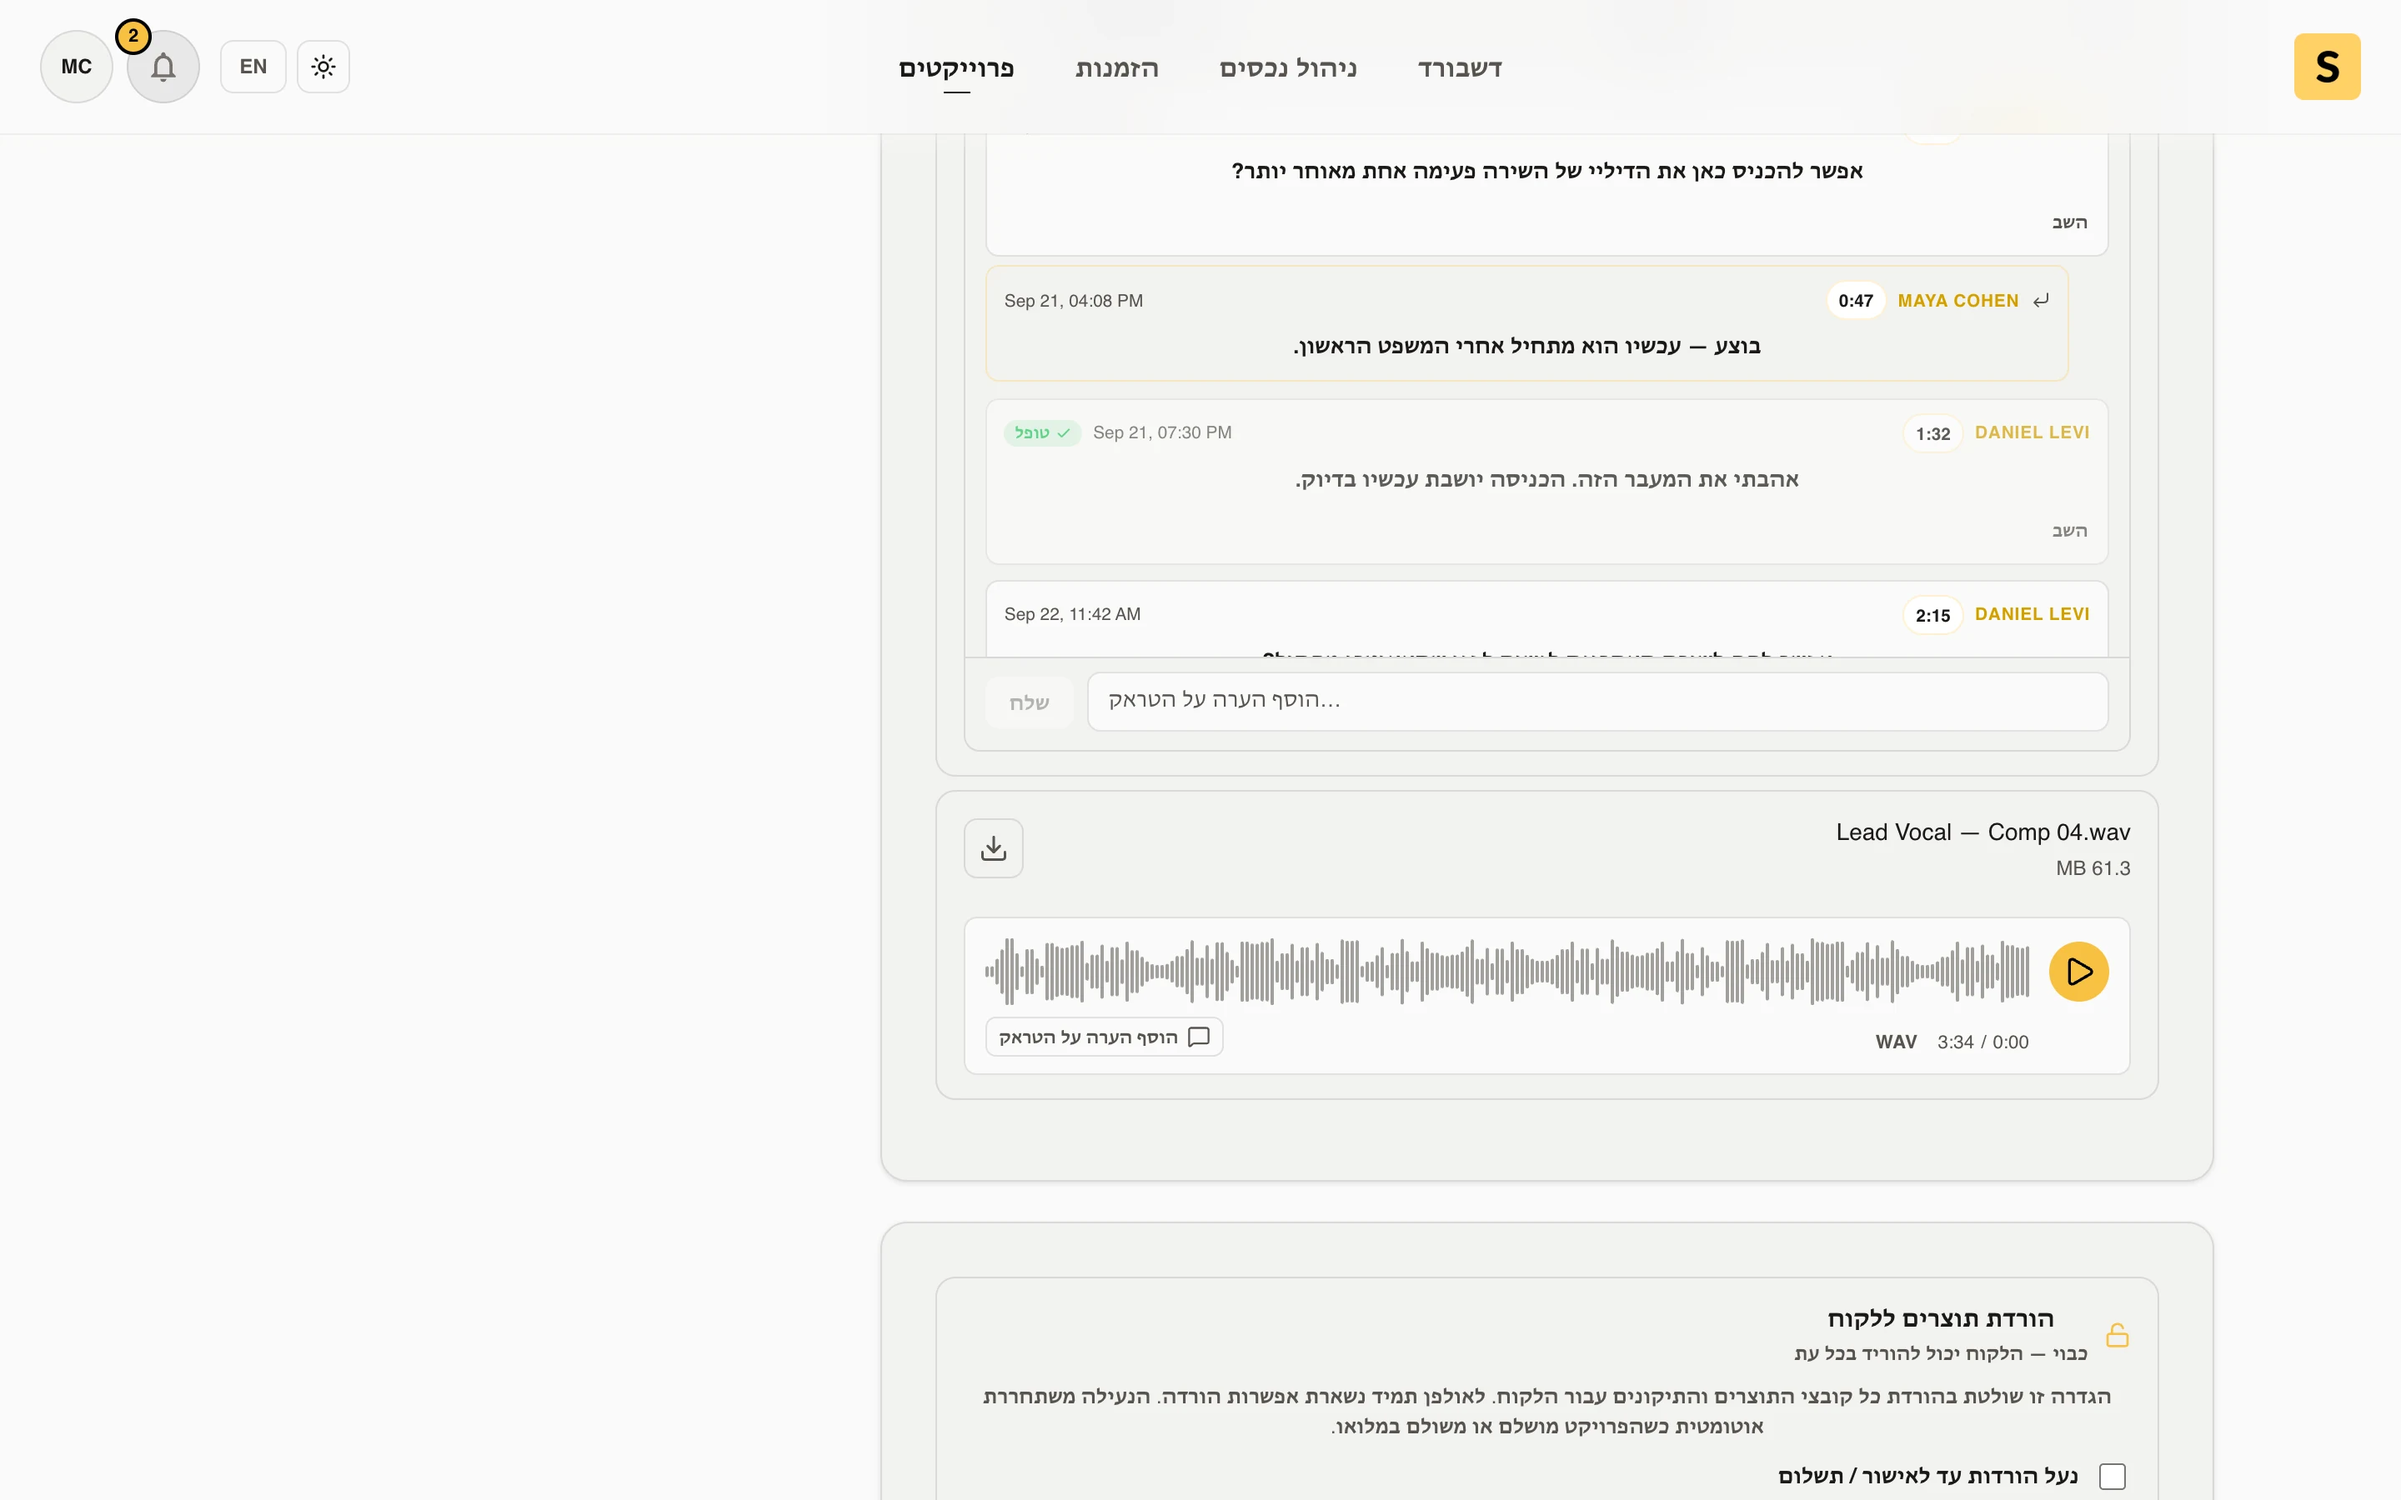
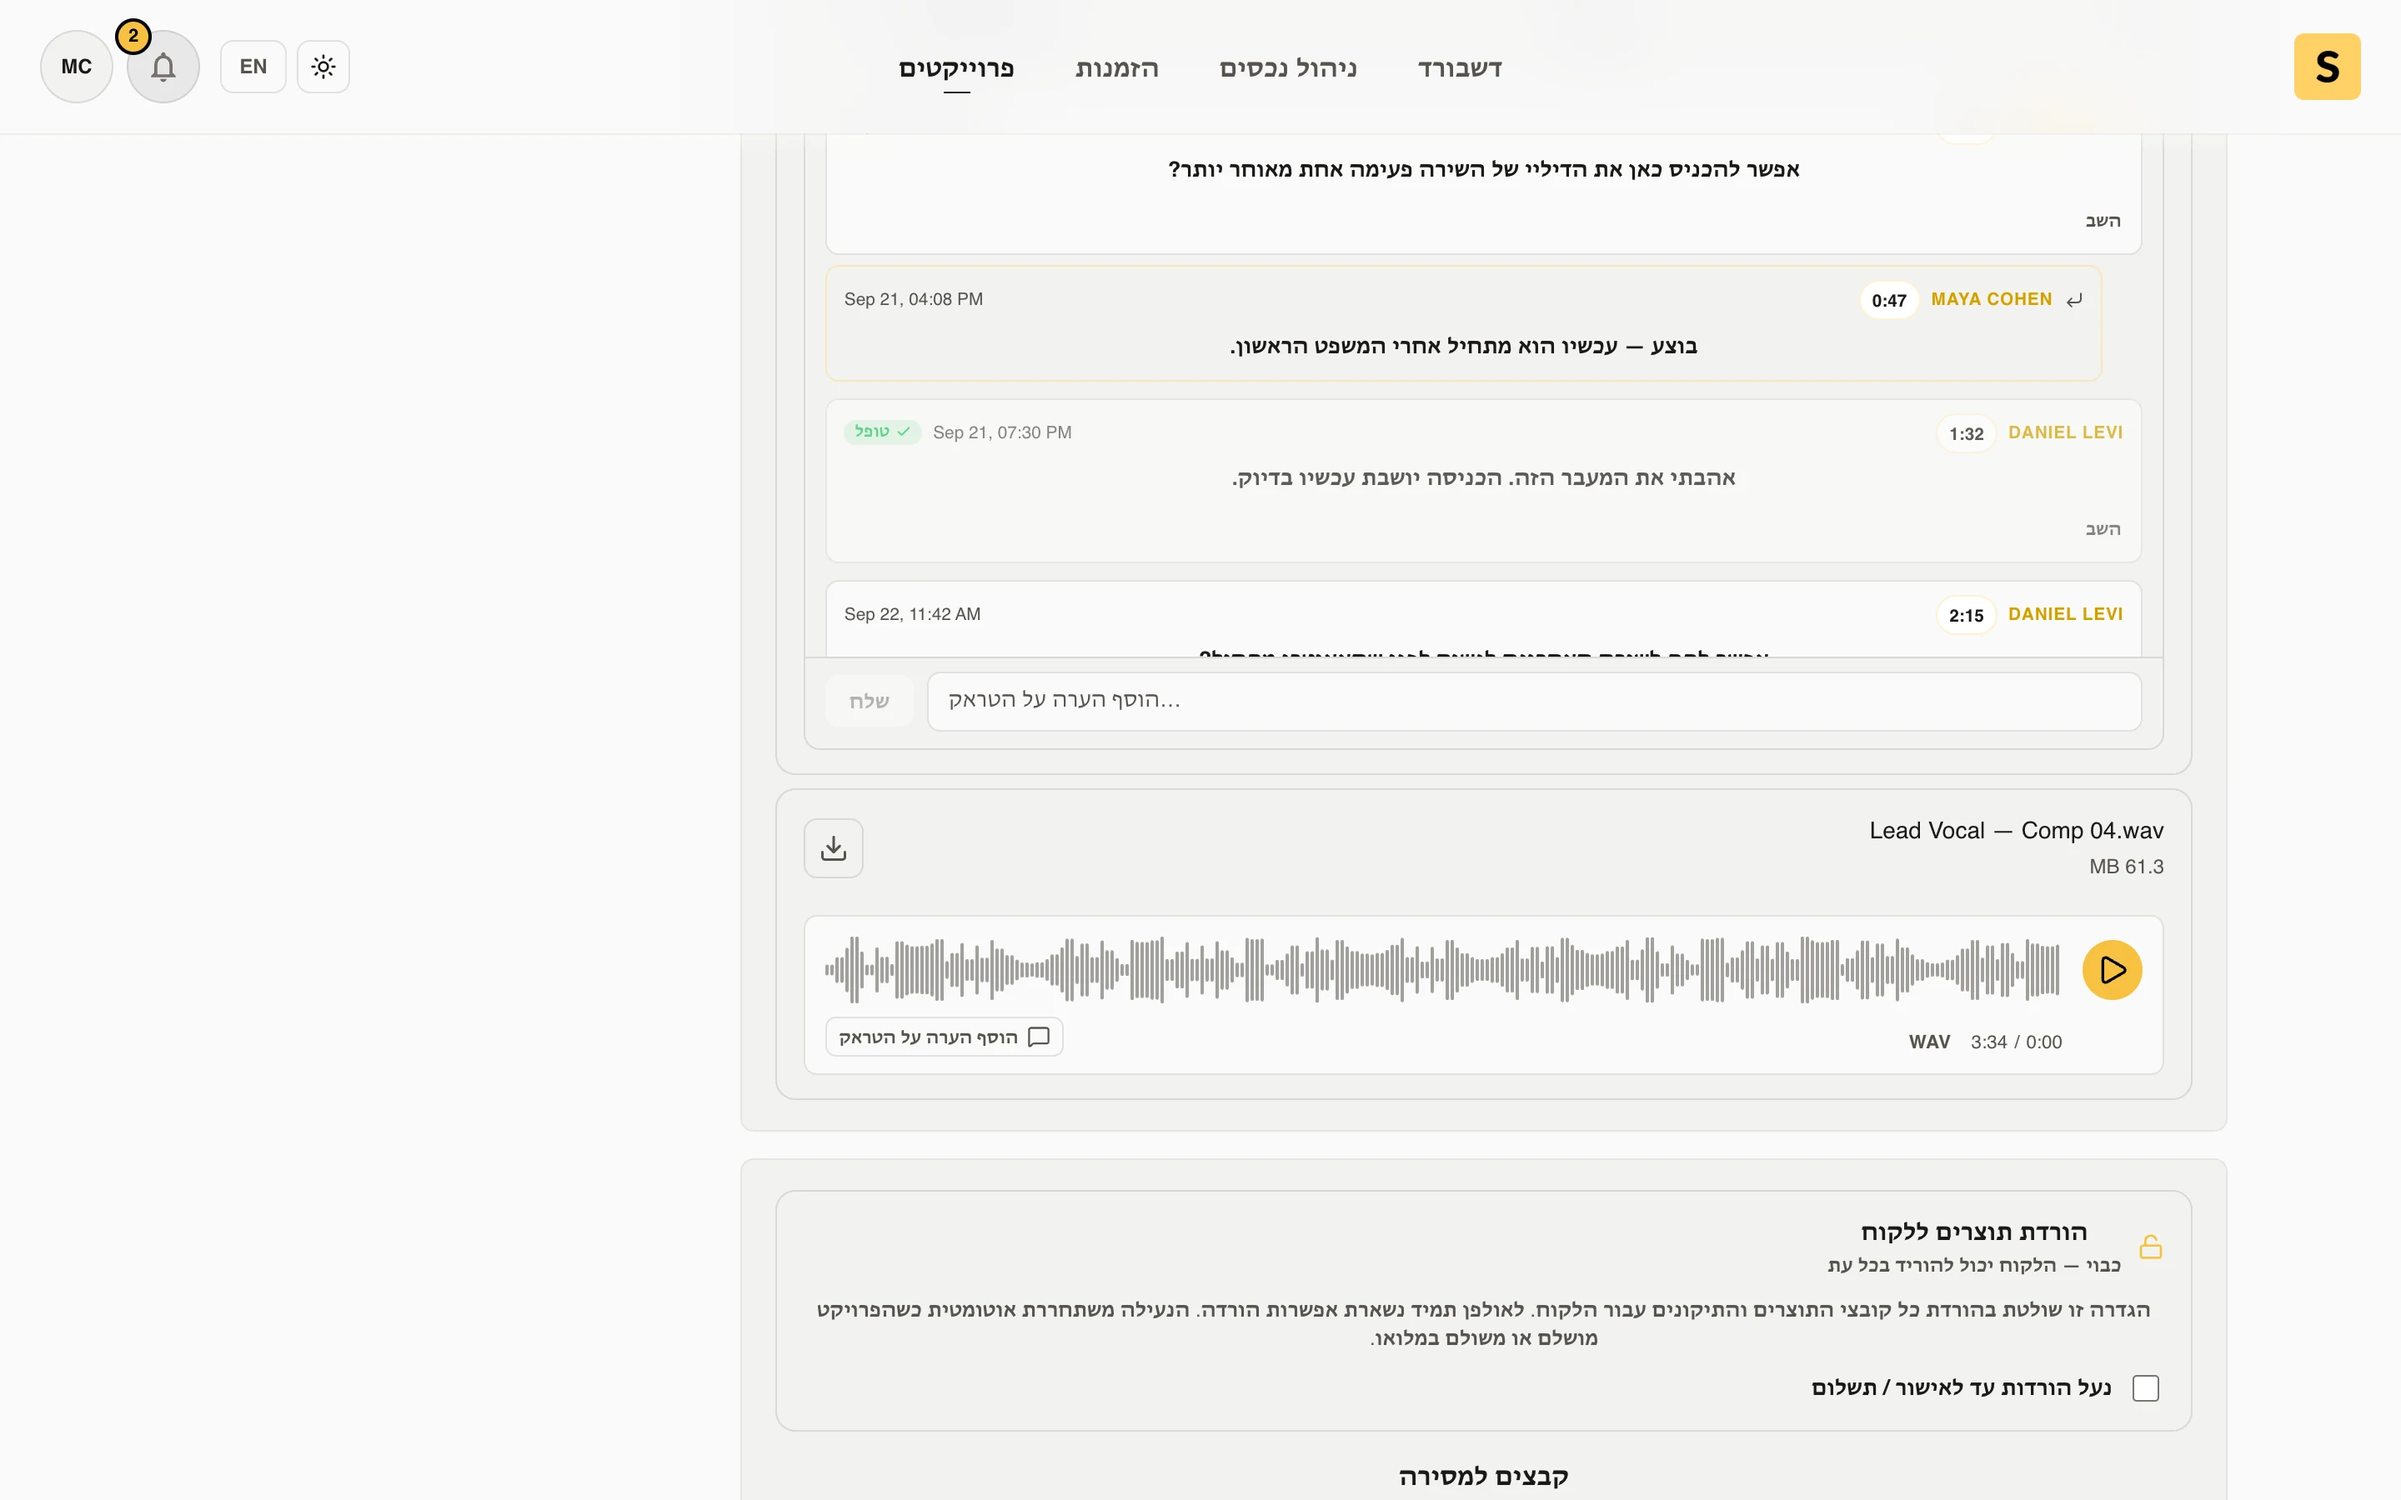
feat: refine project artwork and chat layout

diff --git a/src/features/entities/remote-projects/components/ProjectArtwork.tsx b/src/features/entities/remote-projects/components/ProjectArtwork.tsx
@@ -1,5 +1,5 @@
 import { useCallback, useEffect, useState } from 'react';
-import { ImagePlus, Images, Trash2 } from 'lucide-react';
+import { ImagePlus, Images, X } from 'lucide-react';
 import { useDropzone } from 'react-dropzone';
 import { useTranslation } from 'react-i18next';
 import { toast } from 'sonner';
@@ -78,9 +78,7 @@ export const ProjectArtwork: React.FC<ProjectArtworkProps> = ({ projectId, artwo
     },
     maxFiles: 1,
     maxSize: MAX_ARTWORK_SIZE,
-    disabled: !canEdit || uploadMutation.isPending || removeMutation.isPending,
-    noClick: true,
-    noKeyboard: true
+    disabled: !canEdit || uploadMutation.isPending || removeMutation.isPending
   });
 
   const handleRemove = async () => {
@@ -100,9 +98,12 @@ export const ProjectArtwork: React.FC<ProjectArtworkProps> = ({ projectId, artwo
   const isPending = uploadMutation.isPending || removeMutation.isPending;
 
   return (
-    <section className={`project-artwork${isDragActive ? ' project-artwork--dragging' : ''}`} {...getRootProps()}>
-      <input {...getInputProps()} />
-      <div className="project-artwork__visual">
+    <section className={`project-artwork${isDragActive ? ' project-artwork--dragging' : ''}`}>
+      <div
+        className={`project-artwork__visual${canEdit ? ' project-artwork__visual--editable' : ''}`}
+        {...getRootProps()}
+      >
+        <input {...getInputProps()} />
         {displayUrl ? (
           <img src={displayUrl} alt={t('artwork.alt')} className="project-artwork__image" />
         ) : (
@@ -110,6 +111,31 @@ export const ProjectArtwork: React.FC<ProjectArtworkProps> = ({ projectId, artwo
             <Images aria-hidden="true" />
             <span>{t('artwork.empty')}</span>
           </div>
+        )}
+        {canEdit && !isPending && (
+          <div
+            className={`project-artwork__interaction${
+              displayUrl ? '' : ' project-artwork__interaction--visible'
+            }`}
+            aria-hidden="true"
+          >
+            <ImagePlus />
+            <span>{t(displayUrl ? 'artwork.replaceHint' : 'artwork.dropHint')}</span>
+          </div>
+        )}
+        {canEdit && displayUrl && !isPending && (
+          <button
+            type="button"
+            className="project-artwork__remove"
+            aria-label={t('artwork.remove')}
+            title={t('artwork.remove')}
+            onClick={(event) => {
+              event.stopPropagation();
+              void handleRemove();
+            }}
+          >
+            <X aria-hidden="true" />
+          </button>
         )}
         {uploadMutation.isPending && (
           <div className="project-artwork__progress" role="status">
@@ -123,39 +149,6 @@ export const ProjectArtwork: React.FC<ProjectArtworkProps> = ({ projectId, artwo
           </div>
         )}
       </div>
-
-      {canEdit && (
-        <div className="project-artwork__controls">
-          <div className="project-artwork__actions">
-            <label className={`project-artwork__button${isPending ? ' project-artwork__button--disabled' : ''}`}>
-              <ImagePlus aria-hidden="true" />
-              {displayUrl ? t('artwork.replace') : t('artwork.add')}
-              <input
-                type="file"
-                accept=".jpg,.jpeg,.png,.webp"
-                disabled={isPending}
-                onChange={(event) => {
-                  const file = event.target.files?.[0];
-                  if (file) void onDrop([file]);
-                  event.target.value = '';
-                }}
-              />
-            </label>
-            {displayUrl && (
-              <button
-                type="button"
-                className="project-artwork__button project-artwork__button--danger"
-                onClick={handleRemove}
-                disabled={isPending}
-              >
-                <Trash2 aria-hidden="true" />
-                {t('artwork.remove')}
-              </button>
-            )}
-          </div>
-          <span className="project-artwork__drop-hint">{t('artwork.dropHint')}</span>
-        </div>
-      )}
     </section>
   );
 };

diff --git a/src/features/entities/remote-projects/components/styles/_project-artwork.scss b/src/features/entities/remote-projects/components/styles/_project-artwork.scss
@@ -16,6 +16,23 @@
     border: 1px solid var(--border-secondary, var(--border-primary));
     border-radius: 0.5rem;
     background: var(--bg-surface, var(--bg-secondary));
+
+    &--editable {
+      cursor: pointer;
+    }
+
+    &:focus-visible {
+      outline: 2px solid var(--color-brand);
+      outline-offset: 2px;
+    }
+
+    &:hover,
+    &:focus-within {
+      .project-artwork__interaction,
+      .project-artwork__remove {
+        opacity: 1;
+      }
+    }
   }
 
   &__image {
@@ -43,6 +60,7 @@
 
   &__progress {
     position: absolute;
+    z-index: 4;
     inset: 0;
     display: flex;
     align-items: center;
@@ -55,6 +73,7 @@
 
   &__drop-overlay {
     position: absolute;
+    z-index: 3;
     inset: 0;
     display: flex;
     flex-direction: column;
@@ -73,66 +92,68 @@
     }
   }
 
-  &__controls {
+  &__interaction {
+    position: absolute;
+    z-index: 1;
+    inset: 0;
     display: flex;
-    align-items: center;
-    justify-content: space-between;
-    flex-wrap: wrap;
-    gap: 0.5rem;
-  }
-
-  &__actions {
-    display: flex;
-    flex-wrap: wrap;
-    gap: 0.5rem;
-  }
-
-  &__button {
-    display: inline-flex;
+    flex-direction: column;
     align-items: center;
     justify-content: center;
-    gap: 0.35rem;
-    padding: 0.4rem 0.625rem;
-    border: 1px solid var(--border-secondary, var(--border-primary));
-    border-radius: 0.375rem;
-    background: var(--bg-surface, var(--bg-secondary));
-    color: var(--text-primary);
-    font: inherit;
+    gap: 0.5rem;
+    padding: 1rem;
+    background: rgba(4, 7, 12, 0.68);
+    color: #fff;
     font-size: 0.75rem;
-    cursor: pointer;
+    font-weight: 650;
+    text-align: center;
+    opacity: 0;
+    pointer-events: none;
+    transition: opacity 160ms ease;
 
-    &:hover:not(:disabled) {
-      border-color: var(--color-brand);
-      color: var(--color-brand);
+    svg {
+      width: 1.5rem;
+      height: 1.5rem;
     }
 
-    input {
-      display: none;
+    &--visible {
+      background: color-mix(in srgb, var(--bg-surface, var(--bg-secondary)) 82%, rgba(0, 0, 0, 0.55));
+      color: var(--text-primary);
+      opacity: 1;
+    }
+  }
+
+  &__remove {
+    position: absolute;
+    z-index: 2;
+    inset-block-start: 0.5rem;
+    inset-inline-end: 0.5rem;
+    display: grid;
+    place-items: center;
+    width: 2rem;
+    height: 2rem;
+    padding: 0;
+    border: 1px solid rgb(255 255 255 / 18%);
+    border-radius: 50%;
+    background: rgb(5 7 10 / 82%);
+    color: #fff;
+    cursor: pointer;
+    opacity: 0;
+    transition:
+      opacity 160ms ease,
+      color 160ms ease,
+      background-color 160ms ease;
+
+    &:hover,
+    &:focus-visible {
+      background: var(--color-error, #ef4444);
+      color: #fff;
+      opacity: 1;
     }
 
     svg {
-      width: 0.875rem;
-      height: 0.875rem;
+      width: 1rem;
+      height: 1rem;
     }
-
-    &--danger {
-      color: var(--color-error, #ef4444);
-    }
-
-    &--disabled,
-    &:disabled {
-      cursor: not-allowed;
-      opacity: 0.55;
-    }
-
-    &--disabled:hover {
-      border-color: var(--border-secondary, var(--border-primary));
-      color: var(--text-primary);
-    }
-  }
-
-  &__drop-hint {
-    color: var(--text-muted, var(--text-tertiary));
-    font-size: 0.75rem;
   }
 }

diff --git a/src/features/entities/remote-projects/pages/ProjectDetailPage.tsx b/src/features/entities/remote-projects/pages/ProjectDetailPage.tsx
@@ -402,6 +402,15 @@ export const ProjectDetailPage: React.FC = () => {
             </div>
           </section>
 
+          {user && (
+            <ProjectChat
+              projectId={projectId}
+              currentUserId={user._id}
+              currentUserRole={userRole}
+              disabled={['completed', 'cancelled', 'declined'].includes(project.status)}
+            />
+          )}
+
           {/* Source Files (Customer uploads) */}
           <section className="project-detail__section">
             <ProjectFileUploader
@@ -503,15 +512,6 @@ export const ProjectDetailPage: React.FC = () => {
               <p className="project-detail__no-actions">{t('noActions')}</p>
             )}
           </section>
-
-          {user && (
-            <ProjectChat
-              projectId={projectId}
-              currentUserId={user._id}
-              currentUserRole={userRole}
-              disabled={['completed', 'cancelled', 'declined'].includes(project.status)}
-            />
-          )}
 
           {user && (
             <ProjectCollaborators

diff --git a/tools/app-store-screenshots/screenshots.config.ts b/tools/app-store-screenshots/screenshots.config.ts
@@ -513,13 +513,13 @@ const scenes: ScreenshotScene[] = [
     id: 'desktop-project-workspace',
     order: 23,
     path: '/projects/project-demo',
-    readySelector: '.project-file-uploader--source',
+    readySelector: '.project-chat',
     fixture: 'projects',
     auth: 'vendor',
     device: 'desktop-1440',
     template: 'full-bleed',
     textAlign: 'center',
-    actions: [{ type: 'scroll', selector: '.project-file-uploader--source' }],
+    actions: [{ type: 'scroll', selector: '.project-chat' }],
     deviceTransform: { scale: 0.72, y: 100, shadow: true },
     copy: {
       'en-US': {
